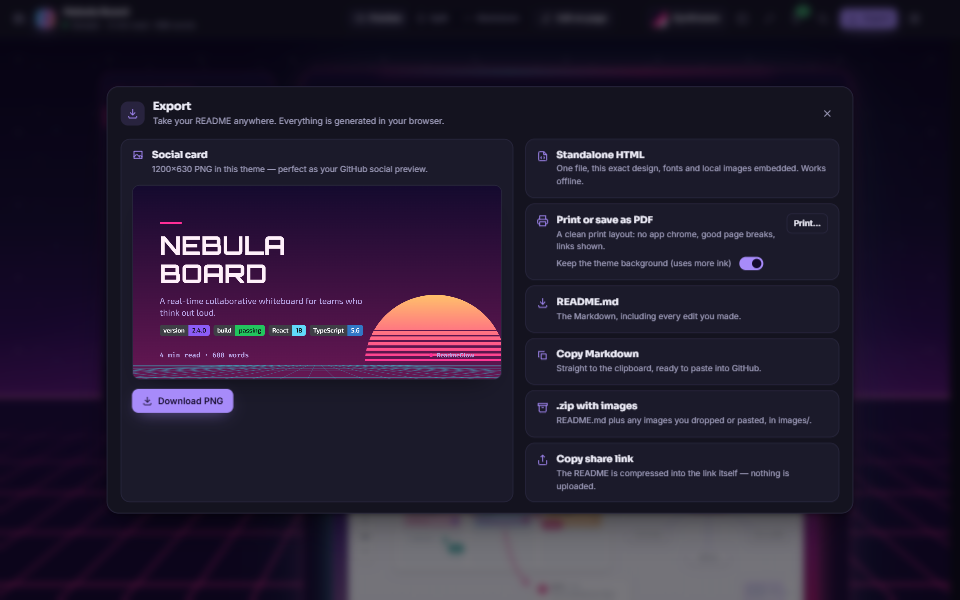
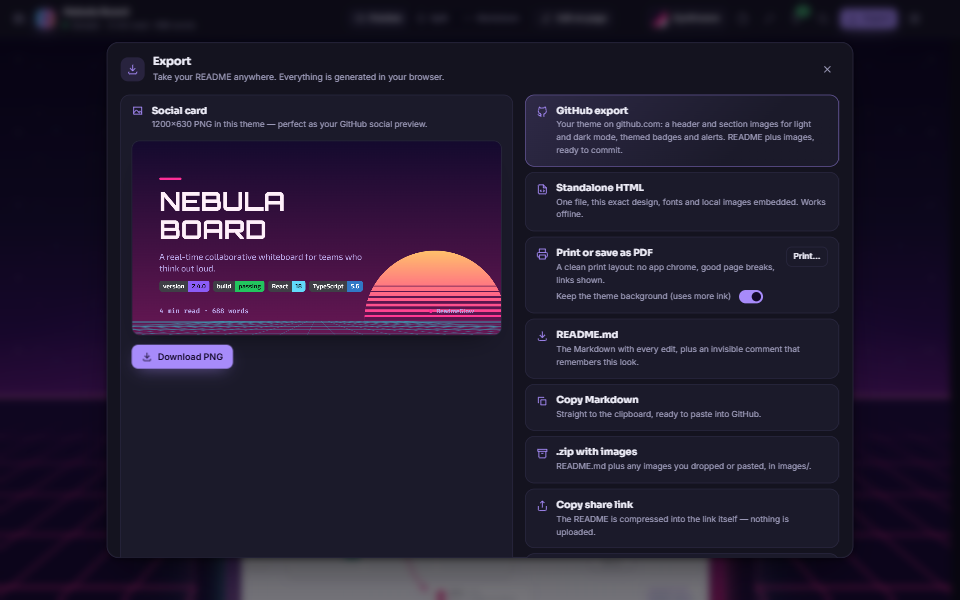
README: made with the GitHub export
The header, section titles and divider are Aurora SVGs (light and dark)
from ReadmeGlow's own GitHub export, with themed badges and a table of
contents. New sections describe the GitHub export and the ways to share
(pretty links, the About -> Website field, a redirect page, the bookmarklet,
the badge). A test keeps the README and its images consistent.

diff --git a/src/lib/ghexport/readme.test.ts b/src/lib/ghexport/readme.test.ts
@@ -1,0 +1,60 @@
+import { describe, expect, it } from 'vitest';
+import { existsSync, readdirSync, readFileSync } from 'node:fs';
+import { resolve } from 'node:path';
+import { readConfig } from './config';
+import { createRenderer } from './renderer';
+import { getTheme } from '../../themes/registry';
+import type { GhFonts } from './svg';
+import { isExported, unexport } from './markers';
+import { DEFAULT_GH_OPTIONS, exportForGitHub, type GhExportOptions, type GhRenderer } from './transform';
+
+/**
+ * ReadmeGlow's own README is made with the GitHub export (Aurora theme).
+ * These checks keep the committed README and its images consistent.
+ */
+export const SELF_EXPORT_OPTIONS: GhExportOptions = {
+  ...DEFAULT_GH_OPTIONS,
+  toc: 'pills',
+  config: { theme: 'aurora', layout: 'landing' },
+};
+
+const root = process.cwd();
+const readme = readFileSync(resolve(root, 'README.md'), 'utf8');
+const dir = resolve(root, '.github/readmeglow');
+
+const stub: GhRenderer = {
+  variants: ['light', 'dark'],
+  hero: () => '',
+  section: () => '',
+  divider: () => '',
+  // The real renderer's colours (fonts are only needed to draw).
+  badgeColors: createRenderer(getTheme('aurora'), null, {} as GhFonts, true).badgeColors,
+};
+
+describe("ReadmeGlow's own README", () => {
+  it('is an export that remembers its look', () => {
+    expect(isExported(readme)).toBe(true);
+    expect(readConfig(readme)).toEqual({ theme: 'aurora', layout: 'landing' });
+    const source = unexport(readme);
+    expect(source).toContain('\n# ReadmeGlow\n');
+    expect(source).not.toContain('readmeglow:begin');
+  });
+
+  it('exports to exactly itself again (no second header, nothing drifts)', () => {
+    expect(exportForGitHub(readme, SELF_EXPORT_OPTIONS, stub).markdown).toBe(readme);
+  });
+
+  it('has every image it uses, and no stray ones', () => {
+    const used = new Set([...readme.matchAll(/\.github\/readmeglow\/[\w.-]+\.svg/g)].map((m) => m[0]));
+    expect(used.size).toBeGreaterThan(10);
+    for (const path of used) expect(existsSync(resolve(root, path)), path).toBe(true);
+    const files = readdirSync(dir).map((f) => `.github/readmeglow/${f}`);
+    expect(files.sort()).toEqual([...used].sort());
+    for (const f of files) {
+      const svg = readFileSync(resolve(root, f), 'utf8');
+      expect(svg.startsWith('<svg xmlns="http://www.w3.org/2000/svg"')).toBe(true);
+      expect(svg.endsWith('</svg>')).toBe(true);
+      expect(svg.replace('http://www.w3.org/2000/svg', '')).not.toMatch(/https?:|<script|<image|@import|href="(?!#)/);
+    }
+  });
+});

diff --git a/README.md b/README.md
@@ -1,48 +1,63 @@
-<div align="center">
-
+<!-- readmeglow theme="aurora" layout="landing" -->
 <a id="readme-top"></a>
 
-<img src="public/favicon.svg" alt="ReadmeGlow logo: a glowing sparkle" width="88" height="88">
-
+<!-- readmeglow:begin hero
 # ReadmeGlow
 
-**Drop any README.md and it becomes a stunning, designed web page.**<br>
-Edit it on the page or in a real editor, beautify it, summarise it and export it. Nothing leaves your browser.
+Drop any README.md and it becomes a stunning, designed web page.
 
-[![Open ReadmeGlow](https://img.shields.io/badge/Open-ReadmeGlow-8B5CF6?style=for-the-badge&logo=markdown&logoColor=white)](https://naniiic137.github.io/readme-glow/)
-[![CI](https://github.com/naniiic137/readme-glow/actions/workflows/ci.yml/badge.svg)](https://github.com/naniiic137/readme-glow/actions/workflows/ci.yml)
-[![Deploy](https://github.com/naniiic137/readme-glow/actions/workflows/pages.yml/badge.svg)](https://github.com/naniiic137/readme-glow/actions/workflows/pages.yml)
-![Tests](https://img.shields.io/badge/tests-1251%20passing-22C55E)
-![Themes](https://img.shields.io/badge/themes-15-EC4899)
-![Privacy](https://img.shields.io/badge/uploads-none-0EA5E9)
+[![Open ReadmeGlow](https://img.shields.io/badge/Open-ReadmeGlow-8B5CF6?style=for-the-badge&logo=markdown&logoColor=white)](https://naniiic137.github.io/readme-glow/) [![CI](https://github.com/naniiic137/readme-glow/actions/workflows/ci.yml/badge.svg)](https://github.com/naniiic137/readme-glow/actions/workflows/ci.yml) [![Deploy](https://github.com/naniiic137/readme-glow/actions/workflows/pages.yml/badge.svg)](https://github.com/naniiic137/readme-glow/actions/workflows/pages.yml) ![Tests](https://img.shields.io/badge/tests-1,379%20passing-22C55E) ![Themes](https://img.shields.io/badge/themes-15-EC4899) ![Uploads](https://img.shields.io/badge/uploads-none-0EA5E9)
+-->
+<h1 align="center"><picture><source media="(prefers-color-scheme: dark)" srcset=".github/readmeglow/hero-dark.svg"><source media="(prefers-color-scheme: light)" srcset=".github/readmeglow/hero-light.svg"><img alt="ReadmeGlow — Drop any README.md and it becomes a stunning, designed web page." src=".github/readmeglow/hero-light.svg"></picture></h1>
+<p align="center">
+  <a href="https://naniiic137.github.io/readme-glow/"><img alt="Open ReadmeGlow" src="https://img.shields.io/badge/Open-ReadmeGlow-8B5CF6?style=for-the-badge&amp;logo=markdown&amp;logoColor=white&amp;labelColor=070713"></a>
+  <a href="https://github.com/naniiic137/readme-glow/actions/workflows/ci.yml"><img alt="CI" src="https://github.com/naniiic137/readme-glow/actions/workflows/ci.yml/badge.svg"></a>
+  <a href="https://github.com/naniiic137/readme-glow/actions/workflows/pages.yml"><img alt="Deploy" src="https://github.com/naniiic137/readme-glow/actions/workflows/pages.yml/badge.svg"></a>
+  <img alt="Tests" src="https://img.shields.io/badge/tests-1,379%20passing-22C55E?style=for-the-badge&amp;labelColor=070713">
+  <img alt="Themes" src="https://img.shields.io/badge/themes-15-EC4899?style=for-the-badge&amp;labelColor=070713">
+  <img alt="Uploads" src="https://img.shields.io/badge/uploads-none-0EA5E9?style=for-the-badge&amp;labelColor=070713">
+</p>
+<!-- readmeglow:end hero -->
 
-**Live:** https://naniiic137.github.io/readme-glow/
-
-</div>
+<p align="center">Edit it on the page or in a real editor, beautify it, summarise it, export it, or carry its theme onto GitHub. Nothing leaves your browser.<br><b>Live:</b> <a href="https://naniiic137.github.io/readme-glow/">naniiic137.github.io/readme-glow</a> · <b>This README:</b> <a href="https://naniiic137.github.io/readme-glow/naniiic137/readme-glow">open it in ReadmeGlow</a></p>
 
 ![ReadmeGlow's start page: a large drop zone for README files, a GitHub box and sample READMEs, on a dark background with violet and pink light](docs/screenshots/hero.png)
 
-## Contents
+> [!TIP]
+> The header, the section titles and the dividers of this README are SVG images made by ReadmeGlow's own [GitHub export](#your-theme-on-github), in the Aurora theme, for light and dark mode.
 
-- [Why](#why)
-- [15 themes](#15-themes)
-- [5 layouts](#5-layouts)
-- [Features](#features)
-- [Add a “View with ReadmeGlow” badge](#add-a-view-with-readmeglow-badge)
-- [How it works](#how-it-works)
-- [Privacy and security](#privacy-and-security)
-- [Keyboard shortcuts](#keyboard-shortcuts)
-- [Tech stack](#tech-stack)
-- [Run it locally](#run-it-locally)
-- [Tests](#tests)
+<!-- readmeglow:begin toc -->
+<p align="center">
+  <a href="#why"><img alt="Why" src="https://img.shields.io/badge/Why-7c3aed?style=for-the-badge&amp;labelColor=070713"></a>
+  <a href="#15-themes"><img alt="15 themes" src="https://img.shields.io/badge/15%20themes-7c3aed?style=for-the-badge&amp;labelColor=070713"></a>
+  <a href="#5-layouts"><img alt="5 layouts" src="https://img.shields.io/badge/5%20layouts-7c3aed?style=for-the-badge&amp;labelColor=070713"></a>
+  <a href="#features"><img alt="Features" src="https://img.shields.io/badge/Features-7c3aed?style=for-the-badge&amp;labelColor=070713"></a>
+  <a href="#your-theme-on-github"><img alt="Your theme on GitHub" src="https://img.shields.io/badge/Your%20theme%20on%20GitHub-7c3aed?style=for-the-badge&amp;labelColor=070713"></a>
+  <a href="#links-badge-and-bookmarklet"><img alt="Links, badge and bookmarklet" src="https://img.shields.io/badge/Links%2C%20badge%20and%20bookmarklet-7c3aed?style=for-the-badge&amp;labelColor=070713"></a>
+  <a href="#how-it-works"><img alt="How it works" src="https://img.shields.io/badge/How%20it%20works-7c3aed?style=for-the-badge&amp;labelColor=070713"></a>
+  <a href="#privacy-and-security"><img alt="Privacy and security" src="https://img.shields.io/badge/Privacy%20and%20security-7c3aed?style=for-the-badge&amp;labelColor=070713"></a>
+  <a href="#keyboard-shortcuts"><img alt="Keyboard shortcuts" src="https://img.shields.io/badge/Keyboard%20shortcuts-7c3aed?style=for-the-badge&amp;labelColor=070713"></a>
+  <a href="#tech-stack"><img alt="Tech stack" src="https://img.shields.io/badge/Tech%20stack-7c3aed?style=for-the-badge&amp;labelColor=070713"></a>
+  <a href="#run-it-locally"><img alt="Run it locally" src="https://img.shields.io/badge/Run%20it%20locally-7c3aed?style=for-the-badge&amp;labelColor=070713"></a>
+  <a href="#tests"><img alt="Tests" src="https://img.shields.io/badge/Tests-7c3aed?style=for-the-badge&amp;labelColor=070713"></a>
+</p>
+<!-- readmeglow:end toc -->
 
+<!-- readmeglow:begin h2
 ## Why
+-->
+## <a id="why"></a><picture><source media="(prefers-color-scheme: dark)" srcset=".github/readmeglow/section-01-why-dark.svg"><source media="(prefers-color-scheme: light)" srcset=".github/readmeglow/section-01-why-light.svg"><img alt="Why" src=".github/readmeglow/section-01-why-light.svg"></picture>
+<!-- readmeglow:end h2 -->
 
 Every README on GitHub looks the same: the same white page, the same grey code blocks. A README is often the first thing people see of a project, and it deserves better.
 
 ReadmeGlow turns any README into a page that feels designed: pick one of 15 hand-crafted themes and 5 layouts, fix it up with one click, edit it right on the page, and share or export the result. It is a single-page app with no server; your files never leave your browser.
 
+<!-- readmeglow:begin h2
 ## 15 themes
+-->
+## <a id="15-themes"></a><picture><source media="(prefers-color-scheme: dark)" srcset=".github/readmeglow/section-02-15-themes-dark.svg"><source media="(prefers-color-scheme: light)" srcset=".github/readmeglow/section-02-15-themes-light.svg"><img alt="15 themes" src=".github/readmeglow/section-02-15-themes-light.svg"></picture>
+<!-- readmeglow:end h2 -->
 
 Each theme has its own fonts, palette, headings, links, callouts, tables, code blocks, image frames, list markers, rules and background. Every one is checked by tests for WCAG AA contrast (4.5:1 for body text, links, callouts and code).
 
@@ -56,7 +71,11 @@ Each theme has its own fonts, palette, headings, links, callouts, tables, code b
 
 Themes that make sense in both have light and dark variants (GitHub, Aurora, Editorial, Pixel Arcade as a Game Boy, Blueprint as a whiteprint, Notebook as a chalkboard, Swiss, Neo-Brutalist, Zen, Frost). With *prefers-reduced-motion*, every animation stops and the page still looks finished.
 
+<!-- readmeglow:begin h2
 ## 5 layouts
+-->
+## <a id="5-layouts"></a><picture><source media="(prefers-color-scheme: dark)" srcset=".github/readmeglow/section-03-5-layouts-dark.svg"><source media="(prefers-color-scheme: light)" srcset=".github/readmeglow/section-03-5-layouts-light.svg"><img alt="5 layouts" src=".github/readmeglow/section-03-5-layouts-light.svg"></picture>
+<!-- readmeglow:end h2 -->
 
 | Layout | What it does |
 |---|---|
@@ -72,7 +91,11 @@ Themes that make sense in both have light and dark variants (GitHub, Aurora, Edi
 | **Slides (Synthwave)** | **Magazine (Swiss)** |
 | ![A slide from the Nebula Board sample in the Synthwave theme, with the progress bar and slide controls](docs/screenshots/layout-slides.png) | ![The Quanta sample in the Swiss theme with the Magazine layout: huge title and two columns](docs/screenshots/layout-magazine.png) |
 
+<!-- readmeglow:begin h2
 ## Features
+-->
+## <a id="features"></a><picture><source media="(prefers-color-scheme: dark)" srcset=".github/readmeglow/section-04-features-dark.svg"><source media="(prefers-color-scheme: light)" srcset=".github/readmeglow/section-04-features-light.svg"><img alt="Features" src=".github/readmeglow/section-04-features-light.svg"></picture>
+<!-- readmeglow:end h2 -->
 
 ### Bring your README
 - **Drop** a `.md`, `.markdown` or `.txt` file anywhere, or click the drop zone to pick one.
@@ -80,7 +103,7 @@ Themes that make sense in both have light and dark variants (GitHub, Aurora, Edi
 - **Paste** Markdown anywhere on the start page, or in the paste box.
 - **Load from GitHub**: `owner/repo`, any github.com link (`/tree/…`, `/blob/…`), `git@github.com:…` or a raw URL. Relative images point to raw.githubusercontent.com and links to github.com. Missing repositories and the API rate limit get friendly messages.
 - **Samples** that use every feature: Nebula Board (web app), Quanta (library with maths), Pixel Quest (game, with an Arabic section) and a fully Arabic README.
-- **Deep links**: `?repo=owner/repo&theme=aurora&layout=docs` opens straight into a README; `#md=…` links carry a small README inside the URL.
+- **Pretty links**: `naniiic137.github.io/readme-glow/owner/repo` (or `…/readme-glow/github.com/owner/repo`) opens any public repository's README. `?repo=owner/repo&theme=aurora&layout=docs` still works, and `#md=…` links carry a small README inside the URL.
 
 ### Edit it, both ways
 ![Split view: the Markdown editor with its toolbar on the left, and the Quanta README in the Editorial theme on the right with a paragraph being edited on the page](docs/screenshots/editor.png)
@@ -117,7 +140,8 @@ Theme gallery with live thumbnails of *your* README, light/dark variant, accent 
 - **Standalone HTML**: one file with this exact design; the theme’s CSS is inlined, its fonts are embedded (latin subset, woff2, base64) and local images become data URIs, so it works offline. Documents with maths link KaTeX’s stylesheet from jsDelivr, because its twenty font files would triple the size.
 - **Print / PDF** with a real print stylesheet: no app chrome, sensible page breaks, link addresses shown, slides one per page. Dark themes print on white by default; tick “keep the theme background” to print exactly what you see.
 - **Social card**: a 1200×630 PNG drawn in the theme’s colours and fonts (title, description, badges), ideal as your GitHub social preview.
-- **README.md**, **copy Markdown**, and a **.zip** with `README.md` plus your images in `images/` (paths rewritten).
+- **README.md**, **copy Markdown**, and a **.zip** with `README.md` plus your images in `images/` (paths rewritten). Each carries an invisible `<!-- readmeglow theme="…" layout="…" -->` comment, so the README reopens in the look you chose.
+- **GitHub export**: your theme on github.com itself (see [below](#your-theme-on-github)).
 - **Share link**: small READMEs are compressed into the link itself (lz-string); for long ones ReadmeGlow explains why and suggests sharing the GitHub link instead.
 
 ### Built for everyone
@@ -128,9 +152,39 @@ Theme gallery with live thumbnails of *your* README, light/dark variant, accent 
 
 <p align="center"><img src="docs/screenshots/phones.png" alt="Three phone screenshots: the start page, the Pixel Arcade theme and the editor with Edit and Preview tabs" width="820"></p>
 
-## Add a “View with ReadmeGlow” badge
+<!-- readmeglow:begin h2
+## Your theme on GitHub
+-->
+## <a id="your-theme-on-github"></a><picture><source media="(prefers-color-scheme: dark)" srcset=".github/readmeglow/section-05-your-theme-on-github-dark.svg"><source media="(prefers-color-scheme: light)" srcset=".github/readmeglow/section-05-your-theme-on-github-light.svg"><img alt="Your theme on GitHub" src=".github/readmeglow/section-05-your-theme-on-github-light.svg"></picture>
+<!-- readmeglow:end h2 -->
 
-Let visitors open your README in your favourite look. In the app, open **⋯ → “View with ReadmeGlow” badge**, or copy this and replace `owner/repo`:
+GitHub shows a README with its own stylesheet: no custom CSS, no fonts, no scripts. The **GitHub export** (Export → GitHub export) carries the theme over using only what GitHub allows, and this README is the proof.
+
+![The GitHub export dialog: options on the left, and on the right a preview of the Nebula Board README in GitHub's own style, with an Aurora header image, themed badges and a section title image](docs/screenshots/github-export.png)
+
+- **Header image**: the title and tagline drawn as an SVG in the theme's fonts (the letters are turned into outlines, because web fonts never load inside a README image), on the theme's background art: Aurora's glow, Synthwave's sun and grid, Blueprint's grid and dimension line, Notebook's ruled paper… An optional, gentle animation stops for readers who ask for reduced motion.
+- **Section titles** for every `##` heading, and **dividers** instead of `---` lines. Each has a light and a dark version, switched with `<picture>` and `prefers-color-scheme`. Anchors keep working: links like `#installation` still land on the right section.
+- **Badges** restyled in the theme's colours (shields.io style and label colour; a green “passing” keeps its meaning), `> **Note**` quotes turned into real GitHub alerts, an optional table of contents (a list, or pills in the theme's colours) and long changelogs folded into `<details>`.
+- **Safe images**: plain SVG shapes and gradients only. No external requests, no fonts, no scripts; a header is about 20 KB and a section title 2 to 8 KB.
+- **A GitHub preview** before you download: the same HTML allow-list as github.com and GitHub's own stylesheet, in light and dark, desktop and phone width. It is close to github.com, not identical (code colours, Mermaid and maths can differ).
+- **Download .zip** gives you `README.md` and the `.github/readmeglow/` folder: unzip it at the root of your repository and commit both. **Copy README** copies only the text, so you still need the images from the zip.
+- **Reversible**: everything the export changes sits between invisible markers that keep your original Markdown. Opening the exported README in ReadmeGlow shows the Markdown behind the images, and exporting again never stacks a second header.
+
+Text in scripts the theme font does not cover (Arabic, Chinese, emoji…) is written with the reader's system font instead of outlines, so it always reads correctly.
+
+<!-- readmeglow:begin h2
+## Links, badge and bookmarklet
+-->
+## <a id="links-badge-and-bookmarklet"></a><picture><source media="(prefers-color-scheme: dark)" srcset=".github/readmeglow/section-06-links-badge-and-bookmarklet-dark.svg"><source media="(prefers-color-scheme: light)" srcset=".github/readmeglow/section-06-links-badge-and-bookmarklet-light.svg"><img alt="Links, badge and bookmarklet" src=".github/readmeglow/section-06-links-badge-and-bookmarklet-light.svg"></picture>
+<!-- readmeglow:end h2 -->
+
+Everything is in **⋯ → Share & access**.
+
+- **Pretty links**: put the ReadmeGlow address in front of any repository, `https://naniiic137.github.io/readme-glow/owner/repo`, or in front of a GitHub link, `…/readme-glow/github.com/owner/repo`. `/tree/branch/folder` and `/blob/branch/file.md` work too. (GitHub Pages answers unknown paths with the app's `404.html`, which is the app itself.)
+- **Your repository's Website link**: on GitHub, click the gear next to **About**, paste the pretty link into **Website**, and press **Save changes**. The link under the description then opens the README in ReadmeGlow. This repository's Website is the app itself: https://naniiic137.github.io/readme-glow/.
+- **A redirect page**: download a tiny `index.html` for your own repository, publish it with GitHub Pages (`docs/` folder), and `owner.github.io/repo/` opens the README in ReadmeGlow. It uses a meta refresh, a script that keeps the `#section`, and a plain link as a fallback.
+- **A bookmarklet**: drag it to your bookmarks bar and click it on any github.com repository page. It refuses to run anywhere else.
+- **The “View with ReadmeGlow” badge**:
 
 ```markdown
 [![View with ReadmeGlow](https://naniiic137.github.io/readme-glow/badge.svg)](https://naniiic137.github.io/readme-glow/?repo=owner/repo&theme=aurora&layout=landing)
@@ -138,7 +192,13 @@ Let visitors open your README in your favourite look. In the app, open **⋯ →
 
 [![View with ReadmeGlow](https://naniiic137.github.io/readme-glow/badge.svg)](https://naniiic137.github.io/readme-glow/?repo=naniiic137/readme-glow&theme=aurora&layout=landing)
 
+A browser extension that adds a button to GitHub itself is a possible future addition; ReadmeGlow does not ship one today.
+
+<!-- readmeglow:begin h2
 ## How it works
+-->
+## <a id="how-it-works"></a><picture><source media="(prefers-color-scheme: dark)" srcset=".github/readmeglow/section-07-how-it-works-dark.svg"><source media="(prefers-color-scheme: light)" srcset=".github/readmeglow/section-07-how-it-works-light.svg"><img alt="How it works" src=".github/readmeglow/section-07-how-it-works-light.svg"></picture>
+<!-- readmeglow:end h2 -->
 
 ```mermaid
 flowchart LR
@@ -149,6 +209,7 @@ flowchart LR
   E --> F[lazy extras<br/>highlight.js · KaTeX]
   F --> G[themed page<br/>15 themes × 5 layouts]
   G --> H[exports<br/>HTML · PDF · PNG · zip · link]
+  B --> I[GitHub export<br/>SVG header and sections<br/>opentype.js outlines]
 ```
 
 1. **Parse once, keep positions.** The Markdown is parsed with remark (GFM, footnotes, maths) in a Web Worker. Every rendered block remembers the exact source range it came from; that is what makes on-page editing, click-to-source and scroll sync possible.
@@ -156,13 +217,21 @@ flowchart LR
 3. **Load heavy extras on demand.** Syntax highlighting, KaTeX, Mermaid, the emoji table, the code editor and each theme’s fonts are separate chunks, loaded only when a document or a theme needs them.
 4. **Edit the source, never re-serialise it.** Every edit — typed, on the page, from Beautify or a fix — becomes a splice into the Markdown with one shared undo history, so untouched text stays byte-identical.
 
+<!-- readmeglow:begin h2
 ## Privacy and security
+-->
+## <a id="privacy-and-security"></a><picture><source media="(prefers-color-scheme: dark)" srcset=".github/readmeglow/section-08-privacy-and-security-dark.svg"><source media="(prefers-color-scheme: light)" srcset=".github/readmeglow/section-08-privacy-and-security-light.svg"><img alt="Privacy and security" src=".github/readmeglow/section-08-privacy-and-security-light.svg"></picture>
+<!-- readmeglow:end h2 -->
 
 - **No server, no uploads.** Files are read and rendered in your browser and saved in its own storage (IndexedDB). The only network requests are the ones you ask for: a public README from the GitHub API, the images your README links to, and — only if you enable it with your own key — an AI summary.
 - **XSS-proof rendering.** All README HTML goes through rehype-sanitize; scripts, event handlers, `javascript:`/`vbscript:`/`data:` links, frames, objects, SVG, forms and style attributes are removed, and ids are prefixed so they cannot clobber globals. 37 classic attack vectors are covered by tests. Mermaid runs with `securityLevel: 'strict'` and its SVG is sanitised again with DOMPurify.
 - **Strict Content-Security-Policy** in the built page: scripts only from the site itself (no inline scripts, no `eval`), images from `https:`/`data:`/`blob:`, network access only to the GitHub API, raw.githubusercontent.com and the optional AI providers. Inline styles are allowed because KaTeX and Mermaid output needs them; user-supplied styles are stripped by the sanitiser.
 
+<!-- readmeglow:begin h2
 ## Keyboard shortcuts
+-->
+## <a id="keyboard-shortcuts"></a><picture><source media="(prefers-color-scheme: dark)" srcset=".github/readmeglow/section-09-keyboard-shortcuts-dark.svg"><source media="(prefers-color-scheme: light)" srcset=".github/readmeglow/section-09-keyboard-shortcuts-light.svg"><img alt="Keyboard shortcuts" src=".github/readmeglow/section-09-keyboard-shortcuts-light.svg"></picture>
+<!-- readmeglow:end h2 -->
 
 | Shortcut | Action |
 |---|---|
@@ -181,15 +250,23 @@ flowchart LR
 | <kbd>Ctrl</kbd> <kbd>Shift</kbd> <kbd>8</kbd> / <kbd>7</kbd> / <kbd>9</kbd> | Bullet / numbered / task list |
 | <kbd>→</kbd> <kbd>←</kbd> <kbd>F</kbd> | Slides: next, previous, full screen |
 
+<!-- readmeglow:begin h2
 ## Tech stack
+-->
+## <a id="tech-stack"></a><picture><source media="(prefers-color-scheme: dark)" srcset=".github/readmeglow/section-10-tech-stack-dark.svg"><source media="(prefers-color-scheme: light)" srcset=".github/readmeglow/section-10-tech-stack-light.svg"><img alt="Tech stack" src=".github/readmeglow/section-10-tech-stack-light.svg"></picture>
+<!-- readmeglow:end h2 -->
 
 - **React 18**, **TypeScript** (strict) and **Vite**, deployed to GitHub Pages by GitHub Actions.
 - **unified / remark / rehype**: remark-gfm, remark-math, rehype-raw, **rehype-sanitize**, rehype-katex, lowlight (highlight.js grammars), github-slugger, gemoji.
 - **CodeMirror 6** for the editor, **Mermaid** + **DOMPurify** for diagrams, **KaTeX** for maths.
-- **@fontsource** for 32 self-hosted font families (loaded only when a theme uses them), **lz-string** for share links, **fflate** for zip files, **zod** to validate AI answers.
+- **@fontsource** for 32 self-hosted font families (loaded only when a theme uses them), **opentype.js** to turn them into SVG outlines for the GitHub export, **github-markdown-css** for the GitHub preview, **lz-string** for share links, **fflate** for zip files, **zod** to validate AI answers.
 - **Vitest**, Testing Library, jsdom and fake-indexeddb for tests.
 
+<!-- readmeglow:begin h2
 ## Run it locally
+-->
+## <a id="run-it-locally"></a><picture><source media="(prefers-color-scheme: dark)" srcset=".github/readmeglow/section-11-run-it-locally-dark.svg"><source media="(prefers-color-scheme: light)" srcset=".github/readmeglow/section-11-run-it-locally-light.svg"><img alt="Run it locally" src=".github/readmeglow/section-11-run-it-locally-light.svg"></picture>
+<!-- readmeglow:end h2 -->
 
 ```bash
 git clone https://github.com/naniiic137/readme-glow.git
@@ -200,18 +277,26 @@ npm test           # the whole test suite
 npm run build      # typecheck + production build in dist/
 ```
 
+<!-- readmeglow:begin h2
 ## Tests
+-->
+## <a id="tests"></a><picture><source media="(prefers-color-scheme: dark)" srcset=".github/readmeglow/section-12-tests-dark.svg"><source media="(prefers-color-scheme: light)" srcset=".github/readmeglow/section-12-tests-light.svg"><img alt="Tests" src=".github/readmeglow/section-12-tests-light.svg"></picture>
+<!-- readmeglow:end h2 -->
 
-1,251 tests in 40 files (Vitest), run on every push by CI. They cover:
+1,379 tests in 48 files (Vitest), run on every push by CI. They cover:
 
 - **Markdown pipeline**: GFM, alerts, footnotes, headings and GitHub-compatible slugs, code blocks, maths, badges, source mapping.
 - **Sanitisation**: 37 XSS vectors (script tags, `onerror`, `javascript:` URLs, SVG `onload`, iframes, style injection, mXSS, DOM clobbering…).
 - **GitHub**: every URL form, relative link and image resolution, rate-limit and 404 handling.
 - **Editing**: formatting commands, table and badge builders, templates, zip path rewriting, the shared undo history, autosave and restore, the visual editor’s block operations — including a fuzz test over the sample READMEs proving that editing one block leaves every other byte untouched.
 - **Beautify** (idempotence over randomised READMEs), **health check** rules and fixes, **summary and facts** extractors, the **AI client** (with a fake fetch), **share links**, **settings persistence**, and the **theme registry** (every theme defines every token and passes the contrast rules).
-- **Components**: drop zone and file input, command palette, dialogs and focus trapping, the editor, Beautify, table builder, find bar, global shortcuts, landing page and workspace.
+- **GitHub export**: every theme's header, section and divider SVGs are valid XML with no external references, stay small and are deterministic; animations live only inside a reduced-motion media query; text outlines, emoji and missing-script fallbacks; the Markdown transform (anchors, badges, alerts, table of contents, folding, CRLF) round-trips back to the original and exporting twice changes nothing; the GitHub preview sanitiser; zip paths; the config comment.
+- **Links**: pretty paths (owner/repo, github.com/…, /tree/, /blob/), the redirect page (escaping) and the bookmarklet, which is run against real and hostile page addresses.
+- **Components**: drop zone and file input, command palette, dialogs and focus trapping, the editor, Beautify, table builder, GitHub export and Share & access dialogs, find bar, global shortcuts, landing page and workspace.
 
----
+<!-- readmeglow:begin divider b64:LS0t -->
+<p align="center"><picture><source media="(prefers-color-scheme: dark)" srcset=".github/readmeglow/divider-dark.svg"><source media="(prefers-color-scheme: light)" srcset=".github/readmeglow/divider-light.svg"><img alt="" src=".github/readmeglow/divider-light.svg"></picture></p>
+<!-- readmeglow:end divider -->
 
 <p align="center">© 2026 Hamza Ben Ismail. All rights reserved.</p>
 <p align="center"><a href="#readme-top">Back to top ↑</a></p>
